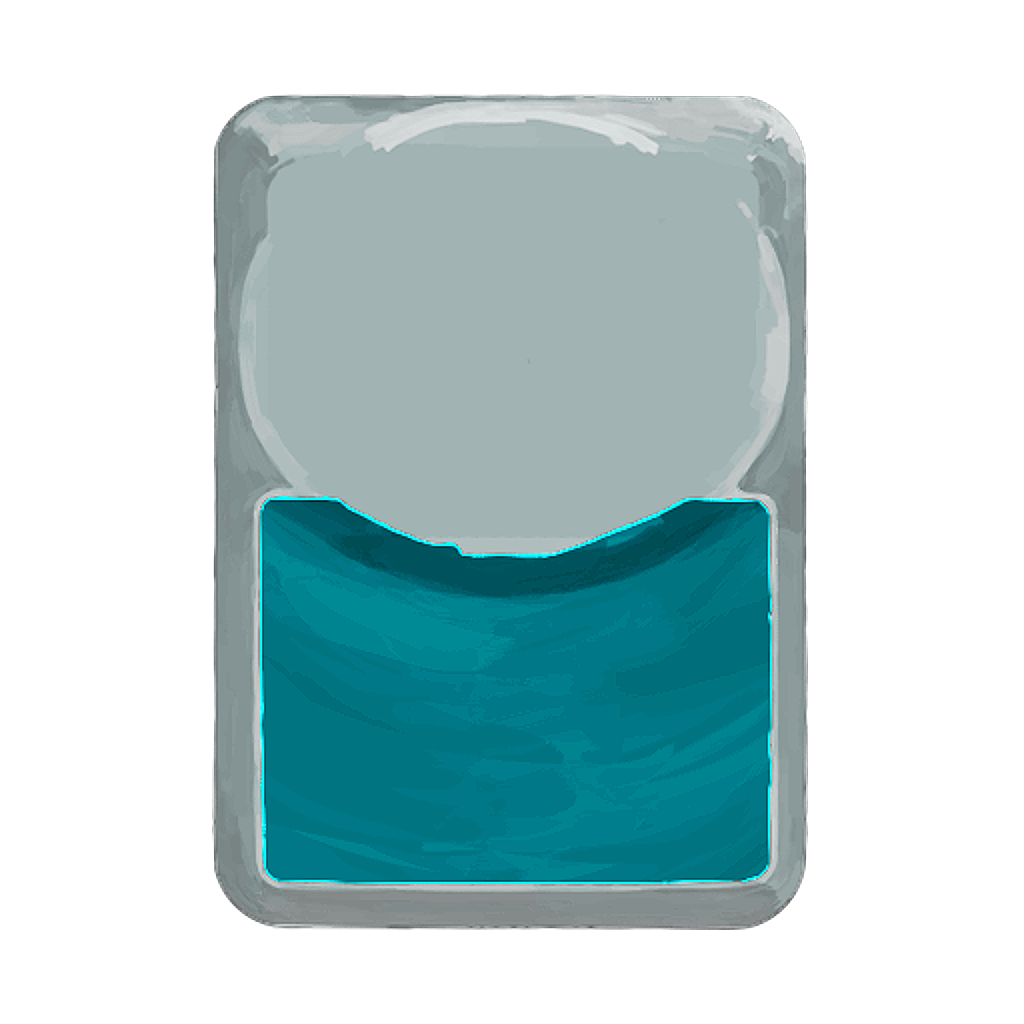
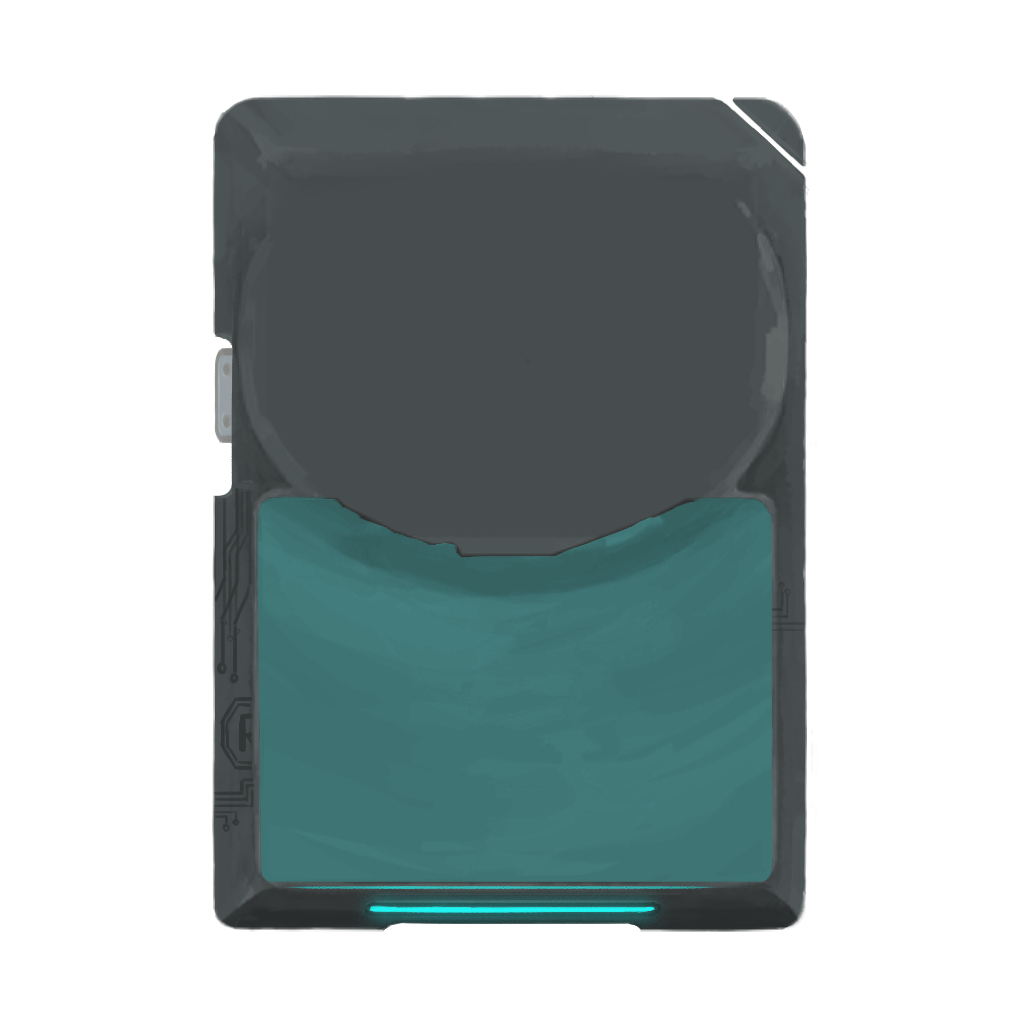
Added Final Card Art

diff --git a/src/main/java/runnermod/stances/RunnerStance.java b/src/main/java/runnermod/stances/RunnerStance.java
@@ -54,7 +54,7 @@ public abstract class RunnerStance extends AbstractStance {
     }
 
     public void onPlayCard(AbstractCard card) {
-        if(card.hasTag(RunnerCharacter.Enums.NEON))
+        if(card.hasTag(RunnerCharacter.Enums.NEON) || card.name.equals("AKIRA"))
         {
             return;
         }
